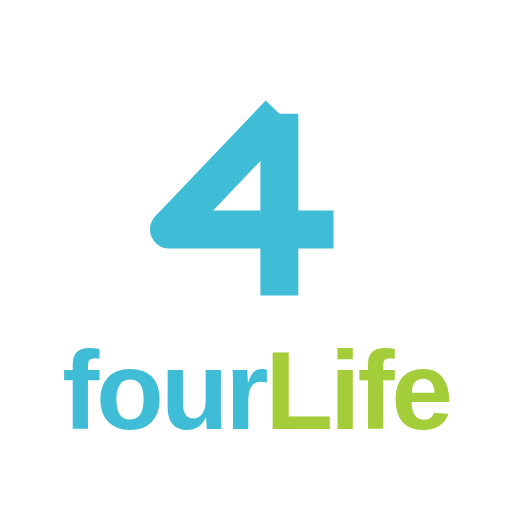
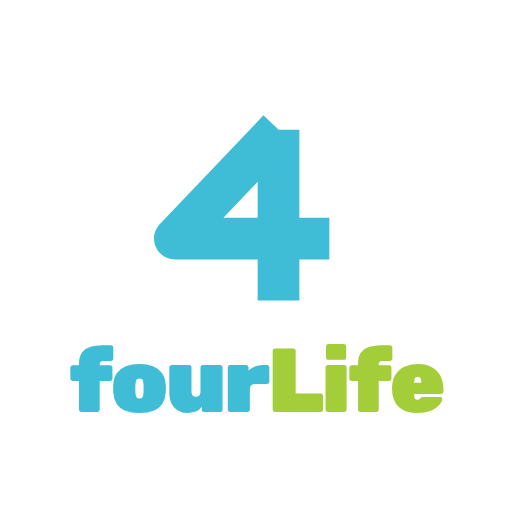
Trocar a letra do painel e deixar a Ragick pronta a entrar
A Ragick é a letra que o Frederico escolheu. É paga e vem em TTF/OTF, por isso
o ficheiro não pode estar no repositório antes de a licença existir — e não vou
buscá-lo a lado nenhum.

O painel fica preparado para ela: é a primeira da lista e procura-a em
public/tipos/ragick.woff2. No dia em que o ficheiro lá estiver, ela entra
sozinha nos títulos, nos números e no logótipo, sem mexer em código. Enquanto
não estiver, o servidor responde 404 e o painel usa a de reserva; esse 404
aparece uma vez na consola por carregamento e desaparece nesse dia.

A de reserva passa a ser a Rubik, e não a Outfit. É a mais perto que há sem
custo do feitio da Ragick: a mesma construção geométrica e pesada, os mesmos
cantos levemente arredondados, o mesmo "g" de um andar com o gancho e o mesmo
"a" de dois andares. Vem do nosso servidor e não do Google — são 35 kB num
ficheiro variável que cobre todos os pesos, e assim os títulos não ficam à
espera de um sítio de fora. A licença dela vai ao lado, como a SIL OFL pede.

Encontrei um erro meu ao fazer isto: os ícones da aplicação que gerei ontem não
estavam na letra do painel. O browser desta máquina não chega ao Google Fonts,
e eu não verifiquei — ele desenhou-os com a letra de sistema e eu dei o trabalho
por feito. Agora a letra é lida de um ficheiro em disco, e confirmei que é mesmo
ela que sai. Os quatro ícones foram refeitos.

O quatro do logótipo engrossa de 70 para 82, senão ficava fino ao lado da letra
nova, mais cheia.
[…]

diff --git a/painel/src/estilo.css b/painel/src/estilo.css
@@ -1,10 +1,45 @@
 @import "tailwindcss";
 
-/* A Outfit é o mais perto que há, sem custo, da geométrica pesada da marca:
-   mesma construção circular e as mesmas terminações direitas. Serve os títulos,
-   os números e o logótipo; o corpo fica em fonte de sistema, que lê melhor em
-   linhas longas e não faz esperar por nada. */
-@import url("https://fonts.googleapis.com/css2?family=Outfit:wght@500;600;700;800&display=swap");
+/*
+ * A letra dos títulos, dos números e do logótipo.
+ *
+ * A que o Frederico escolheu é a Ragick, que é paga e vem em TTF/OTF. Assim que
+ * o ficheiro estiver em public/tipos/, ela entra sozinha e não é preciso mexer
+ * em código nenhum — está primeiro na lista e ganha a quem vier a seguir.
+ *
+ * Enquanto não estiver lá, entra a Rubik, que é a mais perto que há sem custo:
+ * a mesma construção geométrica e pesada, os mesmos cantos levemente
+ * arredondados, o mesmo "g" de um andar com o gancho e o mesmo "a" de dois
+ * andares. Vem do nosso próprio servidor e não do Google: são 35 kB num único
+ * ficheiro variável que cobre todos os pesos, e assim o painel não fica à espera
+ * de um sítio de fora para desenhar os títulos.
+ *
+ * O corpo do texto fica em fonte de sistema, que lê melhor em linhas longas e
+ * não faz esperar por nada.
+ */
+@font-face {
+  font-family: "Ragick";
+  /* Um endereço só, e não três: cada um que não exista é um 404 na consola a
+     cada carregamento. O ficheiro tem de ser .woff2 — o LEIA-ME ao lado tem a
+     linha que converte o .otf ou o .ttf da compra. */
+  src:
+    local("Ragick"),
+    url("/tipos/ragick.woff2") format("woff2");
+  font-weight: 100 900;
+  font-style: normal;
+  /* Mostra já a de reserva e troca quando a Ragick chegar: sem isto, os títulos
+     ficam invisíveis enquanto o ficheiro não carrega. */
+  font-display: swap;
+}
+
+@font-face {
+  font-family: "Rubik";
+  src: url("/tipos/rubik.woff2") format("woff2");
+  /* Ficheiro variável: um só cobre de 300 a 900. */
+  font-weight: 300 900;
+  font-style: normal;
+  font-display: swap;
+}
 
 @theme {
   /* As duas cores da FourLife, tiradas do logótipo. */
@@ -33,7 +68,7 @@
   --color-aviso-tenue: #FDF4E4;
   --color-bom: #2E9E54;
 
-  --font-titulo: "Outfit", ui-sans-serif, system-ui, sans-serif;
+  --font-titulo: "Ragick", "Rubik", ui-sans-serif, system-ui, sans-serif;
   --font-mono: ui-monospace, "SF Mono", SFMono-Regular, Menlo, Consolas, monospace;
 }
 

diff --git a/painel/src/componentes/icones.tsx b/painel/src/componentes/icones.tsx
@@ -229,12 +229,12 @@ export const Trofeu = (p: Props) => (
 /** O quatro do logótipo, sozinho. Serve de ícone e de marca pequena. */
 export const Quatro = ({ className = "h-9 w-9" }: { className?: string }) => (
   <svg viewBox="0 0 512 512" className={className} aria-hidden>
-    <path d="M300 88 L300 424" stroke="currentColor" strokeWidth={70} />
+    <path d="M300 88 L300 424" stroke="currentColor" strokeWidth={82} />
     <path
       d="M300 88 L96 302 L400 302"
       fill="none"
       stroke="currentColor"
-      strokeWidth={70}
+      strokeWidth={82}
       strokeLinejoin="round"
     />
   </svg>
@@ -251,7 +251,7 @@ export const Logotipo = ({ className = "" }: { className?: string }) => (
       fou
       <span className="relative">
         r
-        <Quatro className="absolute -top-[0.44em] left-[0.02em] h-[0.54em] w-[0.54em] text-turquesa" />
+        <Quatro className="absolute -top-[0.46em] left-[0.01em] h-[0.58em] w-[0.58em] text-turquesa" />
       </span>
     </span>
     <span className="text-lima">Life</span>

diff --git a/painel/index.html b/painel/index.html
@@ -15,6 +15,10 @@
     <meta name="theme-color" media="(prefers-color-scheme: light)" content="#F3F6F6" />
     <meta name="theme-color" media="(prefers-color-scheme: dark)" content="#0A1314" />
 
+    <!-- A letra dos títulos começa a descarregar ao mesmo tempo que o CSS, em
+         vez de esperar por ele: sem isto, os títulos aparecem primeiro na letra
+         de sistema e saltam quando ela chega. -->
+    <link rel="preload" href="/tipos/rubik.woff2" as="font" type="font/woff2" crossorigin />
     <link rel="manifest" href="/manifest.webmanifest" />
     <link rel="icon" href="/icone.svg" type="image/svg+xml" />
     <link rel="icon" href="/icone-192.png" sizes="192x192" type="image/png" />

diff --git a/painel/public/tipos/LEIA-ME.md b/painel/public/tipos/LEIA-ME.md
@@ -1,0 +1,52 @@
+# A letra Ragick
+
+O painel está preparado para a **Ragick**, a letra que o Frederico escolheu.
+Ela é paga, por isso o ficheiro não pode estar aqui no repositório antes de a
+licença existir.
+
+## Como a pôr a funcionar
+
+Põe o ficheiro nesta pasta com **este nome exacto**:
+
+```
+public/tipos/ragick.woff2
+```
+
+E pronto. Não é preciso mexer em código nenhum: o painel já a procura aqui, e
+assim que ela existir passa a ser a letra dos títulos, dos números e do
+logótipo.
+
+Enquanto não existir, o servidor responde 404 a esse pedido e o painel usa a de
+reserva. Esse 404 aparece uma vez na consola do browser a cada carregamento —
+é esperado, não é avaria, e desaparece no dia em que o ficheiro lá estiver.
+
+Tem mesmo de ser `.woff2`. Não é teimosia: é entre três e cinco vezes mais
+pequeno que o `.otf` ou o `.ttf` que vêm na compra, e no telemóvel isso é a
+diferença entre o título aparecer logo ou aparecer meio segundo depois. Para
+converter, o `fonttools` faz isso numa linha:
+
+```sh
+pip install fonttools brotli
+fonttools ttLib.woff2 compress -o ragick.woff2 Ragick.otf
+```
+
+## Enquanto ela não chega
+
+A de reserva é a **Rubik** (`rubik.woff2`, aqui ao lado). É a mais perto que há
+sem custo: a mesma construção geométrica e pesada, os mesmos cantos levemente
+arredondados, o mesmo `g` de um andar com o gancho e o mesmo `a` de dois
+andares. Não é igual — a Ragick é mais larga e tem as terminações mais direitas
+— mas é do mesmo feitio, e nada no painel fica torto por causa disso.
+
+Está guardada aqui e não vem do Google: são 35 kB num único ficheiro variável
+que cobre todos os pesos, e assim o painel não fica à espera de um sítio de fora
+para desenhar os títulos. A licença dela é a SIL Open Font License e está em
+`OFL-Rubik.txt`, que é o que essa licença pede que acompanhe o ficheiro.
+
+## Os ícones da aplicação
+
+Os ícones do ecrã principal (`icone-180.png`, `icone-192.png`, `icone-512.png` e
+`icone-recortavel-512.png`) têm a palavra "fourLife" desenhada com a letra do
+painel. Quando a Ragick entrar, é preciso voltar a gerá-los para o ícone
+combinar com o cabeçalho — senão o telemóvel mostra uma letra e o painel mostra
+outra.
